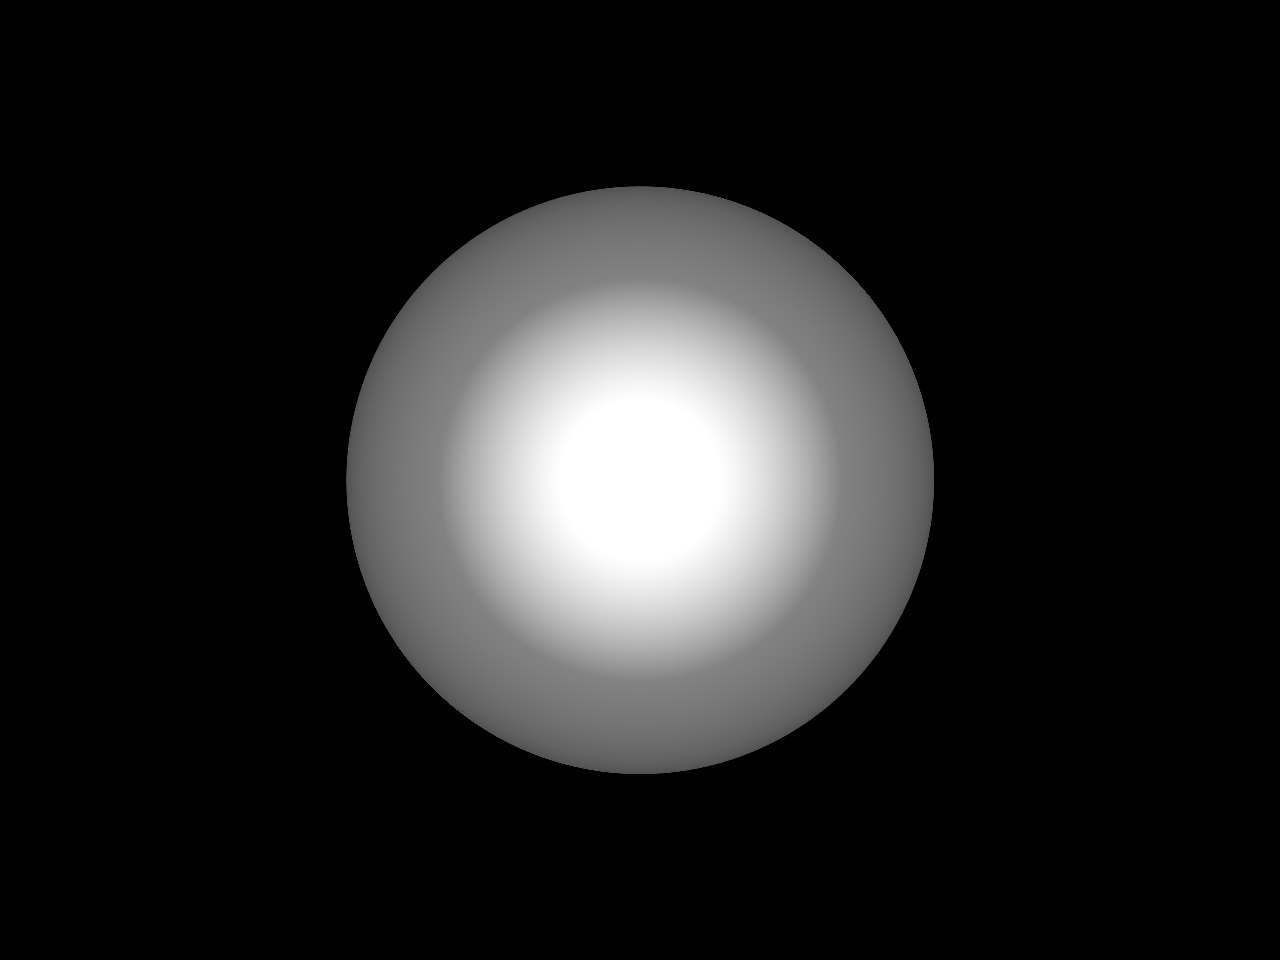
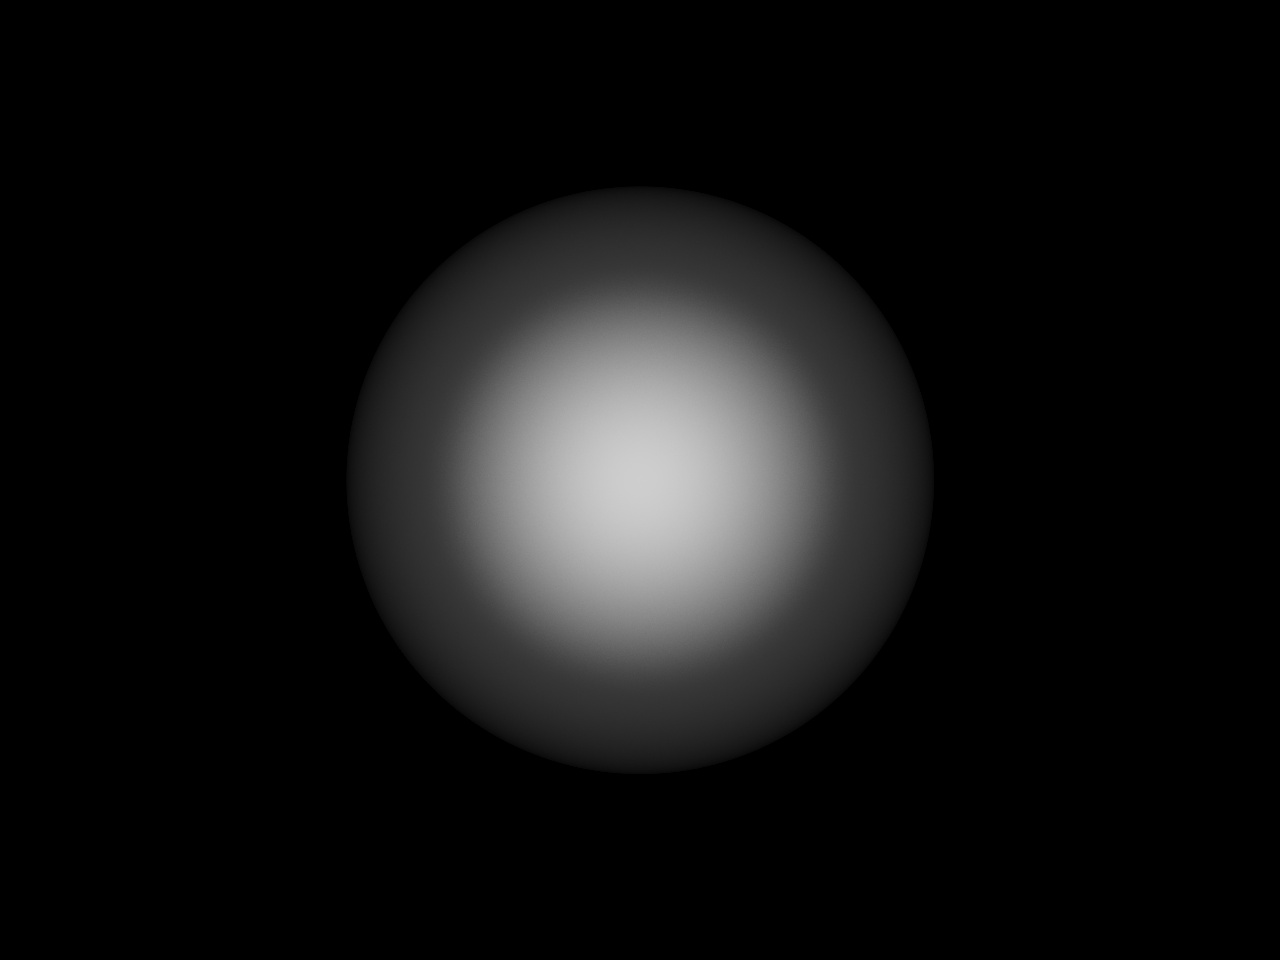
Images for submission

Changed region(s): [[0.25, 0.1875, 0.75, 0.8125]]

diff --git a/assign3/src/Scene.cpp b/assign3/src/Scene.cpp
@@ -56,23 +56,36 @@ void parse_shi(FILE*file,double *shi)
 Color Scene::ray_to_raster(const Ray& r, unsigned int depth) {
   float raymin;
   ShadeHint hitsh;
+  int ox = 0;
+  int oy = 0;
   SceneObject *curobj = getClosestObject(r, &raymin, &hitsh);
   if (curobj == nullptr) {
     return BG_COLOR;
   } else {
     Color pix_col(ambient_light);
     // we've intesected an object
-    for (auto &light : lights) {
-      const Ray& shadowRay = r.createShadowRay(raymin, light);
-      if (hasNoObjectIntersections(curobj, shadowRay)) {
-        switch (curobj->type()) {
-          case SceneObject::TYPE::SPHERE:
-          case SceneObject::TYPE::TRIANGLE:
-            pix_col += curobj->calc_color(this, shadowRay, light, &hitsh, depth + 1);
-            break;
+    #ifdef SOFT_SHADOW
+    for (int i = 0; i < 4; i++) {
+    for (ox = 0; ox < 2; ox++) {
+    for (oy = 0; oy < 2; oy++) {
+#endif
+      for (auto &light : lights) {
+          const Ray& shadowRay = r.createShadowRay(ox*0.2, oy*0.2, raymin, light);
+          if (hasNoObjectIntersections(curobj, shadowRay)) {
+            switch (curobj->type()) {
+              case SceneObject::TYPE::SPHERE:
+              case SceneObject::TYPE::TRIANGLE:
+                pix_col += curobj->calc_color(this, shadowRay, light, &hitsh, depth + 1);
+                break;
+            }
+          }
         }
-      }
-    }
+    #ifdef SOFT_SHADOW
+      } } }
+      pix_col.r /= 15.0;
+      pix_col.g /= 15.0;
+      pix_col.b /= 15.0;
+#endif
     return pix_col;
   }
 }
@@ -93,7 +106,7 @@ bool Scene::hasNoObjectIntersections(const SceneObject *curobj, const Ray& r) {
   }
   for (auto &triangle : triangles) {
     if (&triangle != curobj && triangle.hit(r, &mint, &sh)) {
-      if (mint > kEpsilon) {
+      if (mint > kEpsilon*20) {
         return false;
       }
     }

diff --git a/assign3/src/assign3.cpp b/assign3/src/assign3.cpp
@@ -54,11 +54,12 @@ void plot_pixel_jpeg(int x,int y,unsigned char r,unsigned char g,unsigned char b
 void plot_pixel(int x,int y,unsigned char r,unsigned char g,unsigned char b);
 
 void *run_thread(void *renderproc) {
+  const float num_r = 4.0;
   RenderTask *rp = (RenderTask*)renderproc;
   for (int y = 0; y < rp->yrange(); y++) {
     for (int x = 0; x < rp->xrange(); x++) {
       Color out(0.f, 0.f, 0.f);
-      for (int i = 0; i < 3; i++) {
+      for (int i = 0; i < (int)num_r; i++) {
         for (int cux = 0; cux < 2; cux++) {
           for (int cuy = 0; cuy < 2; cuy++) {
             Ray ray = rp->rt.cast_fast(rp->xi + x - 0.5f + 0.25*cux + RAND_FLOAT*0.25, rp->yi + y - 0.5f + 0.25*cux + RAND_FLOAT*0.25);
@@ -66,9 +67,9 @@ void *run_thread(void *renderproc) {
           }
         }
       }
-      out.r /= 12.f;
-      out.g /= 12.f;
-      out.b /= 12.f;
+      out.r /= num_r*4;
+      out.g /= num_r*4;
+      out.b /= num_r*4;
       buffer[rp->yi + y][rp->xi + x][0] = out.get_r();
       buffer[rp->yi + y][rp->xi + x][1] = out.get_g();
       buffer[rp->yi + y][rp->xi + x][2] = out.get_b();

diff --git a/assign3/raytracer-images/build.py b/assign3/raytracer-images/build.py
@@ -1,5 +1,6 @@
 import glob
 import subprocess
+import os.path, time
 
 paths = ['../img/*.jpg', '../animate/jpgs/*.jpg']
 
@@ -9,6 +10,15 @@ for path in paths:
 
 for fi in range(len(files)):
 	filename = files[fi]
-	subprocess.call(['convert', '-resize', '50%', files[fi], '%03d.jpg' % fi])
+	outname = '%03d.jpg' % fi
+	r = True
+	if (os.path.exists(outname)):
+		ctime0 = os.path.getctime(outname)
+		ctime1 = os.path.getctime(filename)
+		if (ctime1 <= ctime0):
+			r = False
+	if r:
+		print 'Processing %s' % filename
+		subprocess.call(['convert', '-resize', '50%', filename, outname])
 
 print 'Done processing images'

diff --git a/assign3/src/Ray.cpp b/assign3/src/Ray.cpp
@@ -7,6 +7,7 @@
 //
 
 #include "Ray.hpp"
+#include "Constants.h"
 
 
 Ray::Ray(void) {
@@ -17,9 +18,15 @@ Ray::Ray(const vec3& o, const vec3& d) : o(o), d(d) {
 }
 
 // static
-const Ray Ray::createShadowRay(float t, Light& l) const {
+const Ray Ray::createShadowRay(float ox, float oy, float t, Light& l) const {
+  vec3 lp = l.position;
+#ifdef SOFT_SHADOW
+  lp.x += (RAND_FLOAT-0.5)*0.4+ox;
+  lp.y += (RAND_FLOAT-0.5)*0.4+oy;
+  //lp.z += (RAND_FLOAT-0.5)*0.1;
+#endif
   vec3 pi = o + d * t;
-  Ray shadowRay(pi, normalize(l.position - pi));
+  Ray shadowRay(pi, normalize(lp - pi));
   return shadowRay;
 }
 

diff --git a/assign3/src/Ray.hpp b/assign3/src/Ray.hpp
@@ -22,7 +22,7 @@ public:
   Ray(const vec3& origin, const vec3& dir);
   Ray(const Ray &obj);
   ~Ray();
-  const Ray createShadowRay(float md, Light& l) const;
+  const Ray createShadowRay(float ox, float oy, float md, Light& l) const;
 };
 
 class RayThrower {

diff --git a/assign3/src/Constants.h b/assign3/src/Constants.h
@@ -14,6 +14,8 @@
 #define MAX_DEPTH 5
 #define RECURSIVE false
 
+//#define SOFT_SHADOW
+
 #define BG_COLOR Color(0.f, 0.f, 0.f)
 
 #define RAND_FLOAT ((double) rand() / (RAND_MAX))

diff --git a/assign3/readme.md b/assign3/readme.md
@@ -33,18 +33,23 @@ Feature:                                 Status: finish? (yes/no)
 5) Shadows rays                           yes.
 
 6) Still images                           yes.
-   
+
+ex1) Soft shadows 						  yes. (see raytracer-images/002.jpg and raytracer-images/003.jpg)
+ex2) Animation 							  yes. (see animate/gifs/balls.gif)
+ex3) Good antialiasing 					  yes. (see all images in raytracer-images/)
+ex4) Multithreaded tracer 				  yes. (see src/assign3.cpp)
+
 7) Extra Credit (up to 20 points)
 
-7a)  added multithreading to the raytracer / breaks into 9 images to take advantage of N cpu cores (configurable)
+7a) Added multithreading to the raytracer / breaks into 9 images to take advantage of N cpu cores (configurable)
     decreases time from 4 seconds to 130 ms for small scenes. outputs to jpeg.
     allows for a fast high-quality render.
 
-7b) added (good) antialiasing using random grid sampling technique
+7b) Added (good) antialiasing using random grid sampling technique
 
-7c) added a set of script(s) and make files allowing for animating scenes
+7c) Added a set of script(s) and make files allowing for animating scenes
   	(see animate folder)
   	animation and scene building API in python to allow for code to generate scene files.
   	added makefile system to automatically build and make gifs from scenes (animate/gif) (animate/Makefile)
 
-
+7e) Added soft shadows
